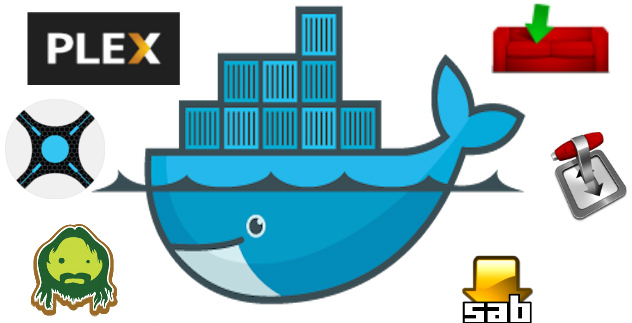
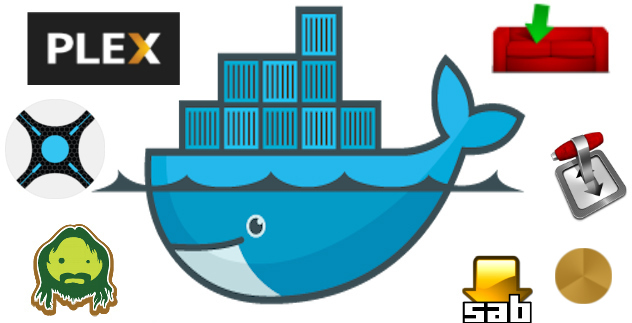
Added in PlexPy proper

Changed region(s): [[0.8718, 0.743, 0.9921, 0.9598]]

diff --git a/README.md b/README.md
@@ -4,11 +4,12 @@
 A collection of services that stands up all your media automation needs with Docker containers.
 
 ## What's in the box?!
-* <img src='http://www.google.com/s2/favicons?domain=sabnzbd.org' height='16' width='16' /> [Sabnzbd](http://sabnzbd.org) (nzb manager)
-* <img src='http://www.google.com/s2/favicons?domain=sickbeard.com' height='16' width='16' /> [Sickbeard](http://sickbeard.com) (tv download manager)
-* <img src='http://www.google.com/s2/favicons?domain=sonarr.tv' height='16' width='16' /> [Sonarr](https://sonarr.tv/) (tv download manager)
-* <img src='http://www.google.com/s2/favicons?domain=couchpota.to' height='16' width='16' /> [CouchPotato](https://couchpota.to) (movie download manager)
+* <img src='http://www.google.com/s2/favicons?domain=sabnzbd.org' height='16' width='16' /> [Sabnzbd](http://sabnzbd.org) (usenet download manager)
+* <img src='http://www.google.com/s2/favicons?domain=sickbeard.com' height='16' width='16' /> [Sickbeard](http://sickbeard.com) (tv search & download manager)
+* <img src='http://www.google.com/s2/favicons?domain=sonarr.tv' height='16' width='16' /> [Sonarr](https://sonarr.tv/) (tv search & download manager)
+* <img src='http://www.google.com/s2/favicons?domain=couchpota.to' height='16' width='16' /> [CouchPotato](https://couchpota.to) (movie search & download manager)
 * <img src='http://www.google.com/s2/favicons?domain=transmissionbt.com' height='16' width='16' /> [Transmission](https://transmissionbt.com) (torrent download manager)
+* <img src='https://goo.gl/Qo7Y3z' height='16' width='16' /> [PlexPy](https://goo.gl/zHQveY) (Plex analytics)
 * <img src='http://www.google.com/s2/favicons?domain=plex.tv' height='16' width='16' /> [Plex Media Server (plexpass)](https://plex.tv) (tv & movie organizer and sharing)
 
 ## Getting Started
@@ -42,8 +43,9 @@ Once the install finishes open your navigate to the following:
 * <img src='http://www.google.com/s2/favicons?domain=sonarr.tv' height='16' width='16' /> [http://ultimate.media.server:8989](http://ultimate.media.server:8989) // Sonarr
 * <img src='http://www.google.com/s2/favicons?domain=couchpota.to' height='16' width='16' /> [http://ultimate.media.server:5050](http://ultimate.media.server:5050) // CouchPotato
 * <img src='http://www.google.com/s2/favicons?domain=couchpota.to' height='16' width='16' /> [http://ultimate.media.server:5051](http://ultimate.media.server:5051) // CouchPotato (for prereleases)
-* <img src='http://www.google.com/s2/favicons?domain=plex.tv' height='16' width='16' /> [http://ultimate.media.server:32400/web](http://ultimate.media.server:32400/web) // Plex Media Server
 * <img src='http://www.google.com/s2/favicons?domain=transmissionbt.com' height='16' width='16' /> [http://ultimate.media.server:8091](http://ultimate.media.server:8091) // Transmission
+* <img src='https://goo.gl/Qo7Y3z' height='16' width='16' /> [http://ultimate.media.server:8181](http://ultimate.media.server:8181) // PlexPy
+* <img src='http://www.google.com/s2/favicons?domain=plex.tv' height='16' width='16' /> [http://ultimate.media.server:32400/web](http://ultimate.media.server:32400/web) // Plex Media Server
 
 ### Want Transmission to run with authentication?
 * Add the transmission username and password params and run the command below.
